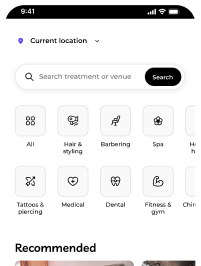
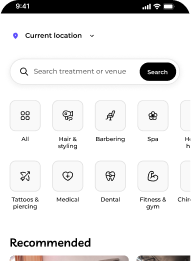
modify changes

diff --git a/App.js b/App.js
@@ -1,7 +1,7 @@
 import React, { useRef, useState } from 'react';
 import {
   View,
-  Text,
+  Text as RNText,
   ScrollView,
   FlatList,
   Image,
@@ -14,6 +14,26 @@ import {
   useWindowDimensions,
 } from 'react-native';
 import { Ionicons } from '@expo/vector-icons';
+
+// Figma uses Montserrat for body text and Livvic for headings. On web we load them
+// from Google Fonts; on a phone build they fall back to the system font.
+const BODY_FONT = 'Montserrat, system-ui, sans-serif';
+const HEAD_FONT = 'Livvic, Montserrat, system-ui, sans-serif';
+if (Platform.OS === 'web' && typeof document !== 'undefined') {
+  const id = 'sv-fonts';
+  if (!document.getElementById(id)) {
+    const link = document.createElement('link');
+    link.id = id;
+    link.rel = 'stylesheet';
+    link.href =
+      'https://fonts.googleapis.com/css2?family=Livvic:wght@500;600;700&family=Montserrat:wght@400;500;600;700&display=swap';
+    document.head.appendChild(link);
+  }
+}
+// Every <Text> gets Montserrat unless its style sets another font.
+function Text({ style, ...rest }) {
+  return <RNText {...rest} style={[{ fontFamily: BODY_FONT }, style]} />;
+}
 
 // ---------------------------------------------------------------------------
 // Design tokens. Guessed from the Figma screenshots, so confirm them in
@@ -845,7 +865,7 @@ const styles = StyleSheet.create({
 
   body: { paddingHorizontal: 20, paddingTop: 28 },
 
-  title: { fontSize: 26, lineHeight: 32, fontWeight: '700', color: theme.black },
+  title: { fontFamily: HEAD_FONT, fontSize: 28, lineHeight: 34, fontWeight: '600', color: theme.black },
   category: { fontSize: 14, color: theme.muted, marginTop: 6 },
   locationPill: {
     flexDirection: 'row',
@@ -862,7 +882,7 @@ const styles = StyleSheet.create({
     marginTop: 18,
     gap: 8,
   },
-  locationText: { fontSize: 14, fontWeight: '500', color: theme.black },
+  locationText: { fontSize: 16, fontWeight: '500', color: theme.black },
   locationDot: { width: 4, height: 4, borderRadius: 2, backgroundColor: theme.black },
   notice: {
     fontSize: 16,
@@ -895,8 +915,9 @@ const styles = StyleSheet.create({
 
   section: { marginTop: 42 },
   sectionTitle: {
-    fontSize: 18,
-    fontWeight: '700',
+    fontFamily: HEAD_FONT,
+    fontSize: 20,
+    fontWeight: '600',
     color: theme.black,
     marginBottom: 14,
   },
@@ -961,7 +982,7 @@ const styles = StyleSheet.create({
     alignItems: 'center',
     justifyContent: 'space-between',
   },
-  dLogo: { fontSize: 30, fontWeight: '700', letterSpacing: -1, color: theme.black },
+  dLogo: { fontFamily: HEAD_FONT, fontSize: 30, fontWeight: '600', letterSpacing: -1, color: theme.black },
   dHeaderRight: { flexDirection: 'row', alignItems: 'center', gap: 16 },
   dHeaderLink: { fontSize: 14, fontWeight: '500', color: theme.black },
   dAvatarRow: { flexDirection: 'row', alignItems: 'center', gap: 6 },
@@ -983,7 +1004,7 @@ const styles = StyleSheet.create({
     marginTop: 14,
     marginBottom: 24,
   },
-  dTitle: { fontSize: 44, lineHeight: 52, fontWeight: '700', color: theme.black },
+  dTitle: { fontFamily: HEAD_FONT, fontSize: 44, lineHeight: 52, fontWeight: '600', color: theme.black },
   dSubRow: { flexDirection: 'row', alignItems: 'center', gap: 10, marginTop: 6, flexWrap: 'wrap' },
   dSub: { fontSize: 15, fontWeight: '500', color: theme.black },
   dDot: { width: 4, height: 4, borderRadius: 2, backgroundColor: theme.black },
@@ -992,7 +1013,7 @@ const styles = StyleSheet.create({
   dColumns: { flexDirection: 'row', alignItems: 'flex-start', gap: 32 },
   dBlock: { marginTop: 40 },
   dAboutRow: { flexDirection: 'row', alignItems: 'flex-start', justifyContent: 'space-between' },
-  dH2: { fontSize: 24, lineHeight: 30, fontWeight: '700', color: theme.black },
+  dH2: { fontFamily: HEAD_FONT, fontSize: 24, lineHeight: 30, fontWeight: '600', color: theme.black },
   dBody: { fontSize: 15, lineHeight: 24, fontWeight: '500', color: theme.black, marginTop: 8 },
   dClaim: {
     height: 36,
@@ -1029,7 +1050,7 @@ const styles = StyleSheet.create({
     alignItems: 'center',
     justifyContent: 'center',
   },
-  dQrTitle: { fontSize: 20, fontWeight: '700', color: theme.black },
+  dQrTitle: { fontSize: 22, lineHeight: 30, fontWeight: '700', color: theme.black },
   dQrText: { fontSize: 18, lineHeight: 25, fontWeight: '500', color: theme.black, marginTop: 8 },
 
   dInfoRow: { flexDirection: 'row', alignItems: 'center', gap: 10, marginTop: 4 },
@@ -1043,7 +1064,7 @@ const styles = StyleSheet.create({
     padding: 24,
     backgroundColor: theme.white,
   },
-  dCardTitle: { fontSize: 18, fontWeight: '700', color: theme.black },
+  dCardTitle: { fontFamily: HEAD_FONT, fontSize: 24, lineHeight: 30, fontWeight: '600', color: theme.black },
   dCardText: { fontSize: 16, lineHeight: 22, fontWeight: '500', color: theme.black, marginTop: 12 },
   dCardSmall: { fontSize: 13, color: theme.muted, marginTop: 20 },
 });
